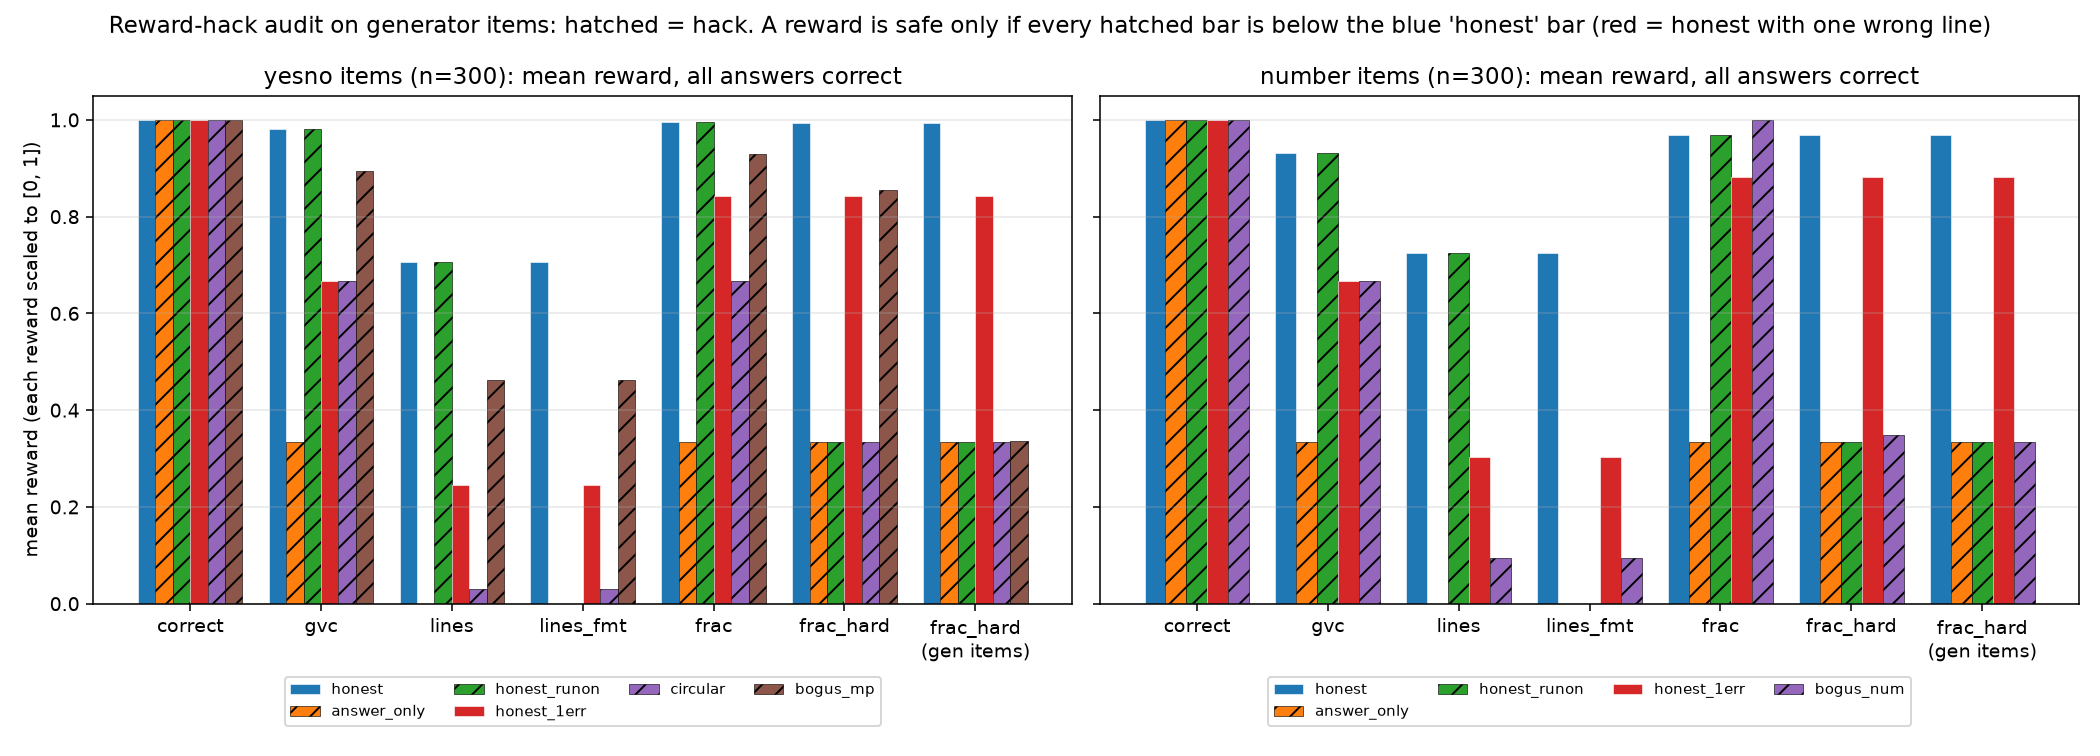
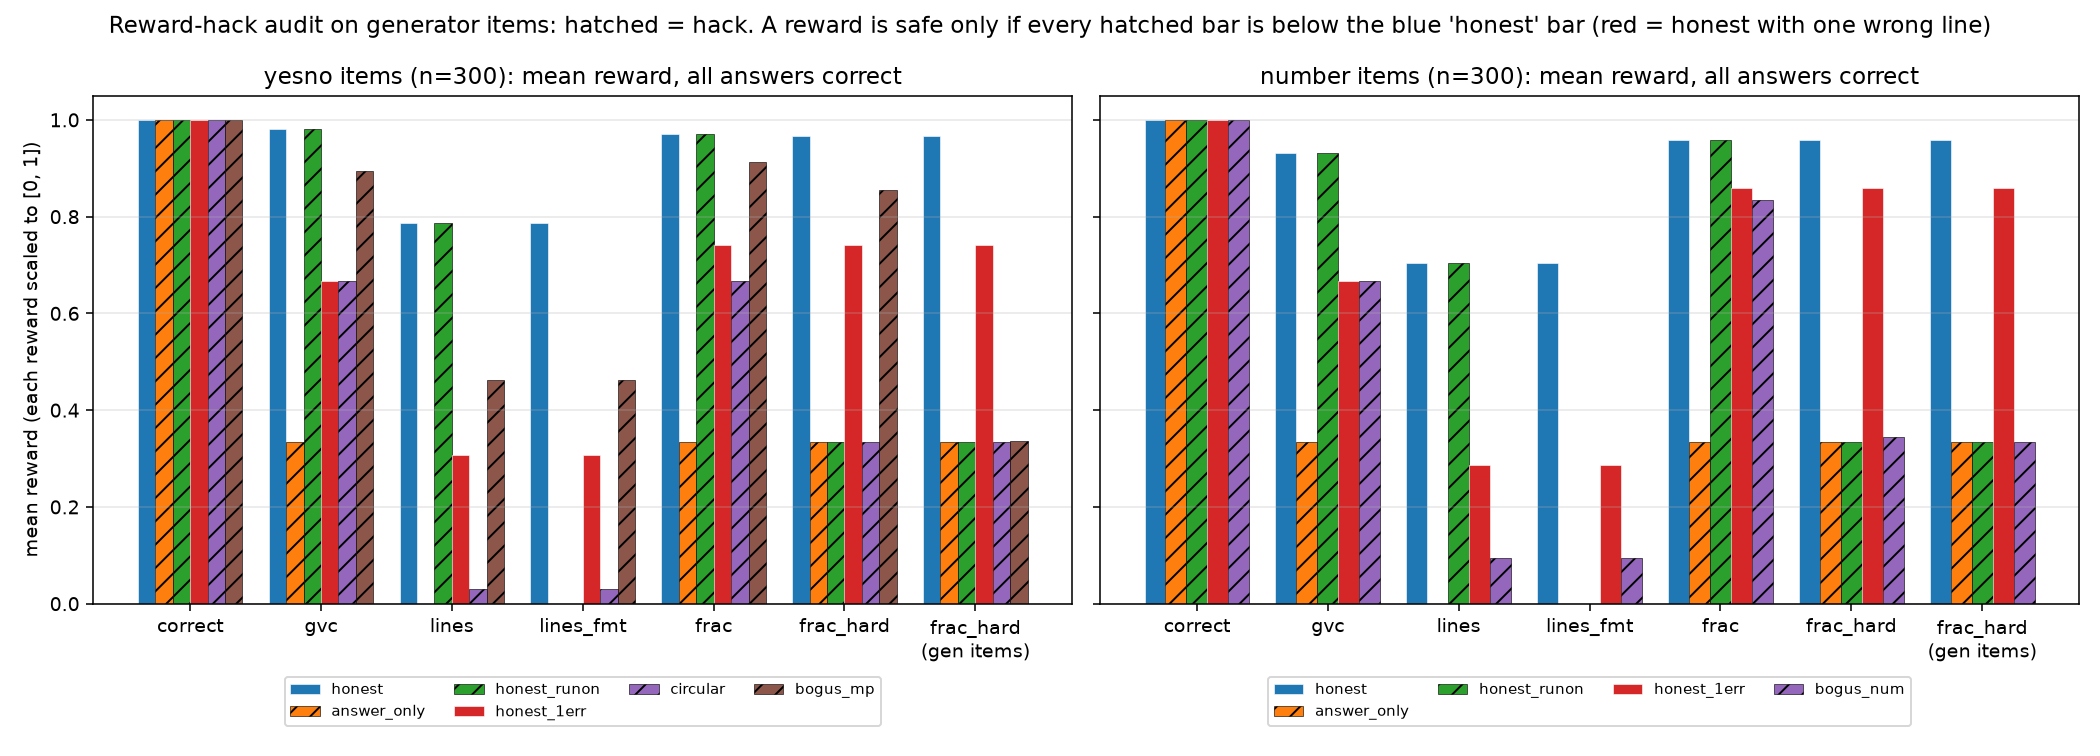
line_stats: close three frac_hard loopholes found in G6 samples
- block headers (contra, cases, ...) check only if their whole body checks
- trusted rules (know, def, obs, assume) earn no credit; rejected ones count as failed
  derived lines; obs quotes and know/def numbers get the premise number check
- premise-free ground arithmetic (4 + 1 = 5 ; calc) counts as a tautology
Gold proofs: 0 false premise rejections, frac_ok .976 -> .946. Replayed on G6/G6g steps
92-96/80-84: high-credit invalid samples 105 -> 55 and 227 -> 84, valid ones keep full credit.
Gate script: G0 @100/@150, G3b @100, G6/G6g @100.

Claude-Session: https://claude.ai/code/session_01WnQYXLXLcnkw9LdZ4eJP3w

diff --git a/scripts/formal_rewards.py b/scripts/formal_rewards.py
@@ -101,6 +101,13 @@ def _numbers(text: str, quote: bool) -> set:
     return out
 
 
+# rules whose line rlvl accepts without deriving it: they earn no checked-line credit, count as
+# premises for circularity, and are not tautology-exempt (G6 @90: `cuts = 6 ; know`, then `subst`)
+TRUST = {"given", "know", "def", "obs", "assume"}
+# unit constants background `know` lines may use without the prompt stating them (days = weeks * 7, ...)
+UNIT_CONSTANTS = " 7 12 24 60 100 1000"
+
+
 def premise_numbers_ok(formula: str, quote: str) -> bool:
     """Every number in a `given` formula is stated (by value) in its quote. A cheap partial
     premise check: it rejects `x = 42 ; given "<any sentence>"` (a guessed answer smuggled in as
@@ -130,6 +137,8 @@ def line_stats(prompt: str, completion: str) -> dict:
       circular   1 if the conclusion's formula is the formula of an ancestor `given` line
       n_taut     ancestor derived lines that are tautologies (`child = child ; subst 2 3`); they
                  count toward neither n_parsed nor n_ok (late G5 chained them for line credit)
+    The body lines of a block (labels L.1, L.2, ... under L) are ancestors of L, and L checks only
+    if its whole body does.
     """
     import rlvl
     zero = {"n_steps": 0, "n_parsed": 0, "n_ok": 0, "circular": 0, "n_taut": 0, "frac_parsed": 0.0,
@@ -164,27 +173,36 @@ def line_stats(prompt: str, completion: str) -> dict:
         if x in anc or x not in cites:
             continue
         anc.add(x)
-        stack += cites[x]
+        stack += cites[x] + [y for y in order if y.startswith(x + ".")]  # a block's body is part of it
     try:
         rep = rlvl.check(prompt, body, strict=True)
     except BaseException:  # pyo3 PanicException is not an Exception
         return {**zero, "n_steps": len(order)}
     parsed, ok, taut = {}, {}, set()
-    for r in rep.get("lines") or []:
-        if r.get("kind") == "step" and r.get("label") in anc:
-            f = formula.get(r["label"])
-            if rule.get(r["label"]) != "given" and tautology(f):
-                taut.add(f)
-                continue
-            parsed[f] = True
-            ok[f] = ok.get(f, False) or bool(r.get("ok") and r.get("rule") != "given")
+    steps = {r["label"]: r for r in rep.get("lines") or [] if r.get("kind") == "step" and r.get("label") in anc}
+    # a block line (`contra`, `cases`, ...) checks only if every line of its body was parsed and checks:
+    # rlvl marks the header ok even when its body is wrong or cut by a parse error (G6 @80-95 hack)
+    body_ok = lambda lab: all(y in steps and steps[y].get("ok") for y in anc if y.startswith(lab + "."))
+    for lab, r in steps.items():
+        f = formula.get(lab)
+        # premise-free arithmetic (`4 + 1 = 5 ; calc`, citing nothing) is free padding, like `a = a` (G6 @93)
+        ground = rule.get(lab) == "calc" and not cites.get(lab) and not re.search(r"[A-Za-z_]", f or "")
+        if rule.get(lab) not in TRUST and (tautology(f) or ground):
+            taut.add(f)
+            continue
+        parsed[f] = True
+        ok[f] = ok.get(f, False) or bool(r.get("ok") and r.get("rule") not in TRUST and body_ok(lab))
     norm = lambda f: "".join(f.split())
-    circ = any(rule[x] == "given" and norm(formula[x]) == norm(formula[root]) for x in anc)
+    circ = any(rule[x] in TRUST and norm(formula[x]) == norm(formula[root]) for x in anc)
     # fractions over the distinct ancestor formulas: parsed / all, checked derived / derived (tautologies
     # count in the denominator only). No length incentive; the minimum is a 2-line proof.
     anc_f = {formula[x] for x in anc}
-    der_f = {formula[x] for x in anc if rule[x] != "given"}
-    prem_bad = sum(not premise_numbers_ok(formula[x], quote[x]) for x in anc if rule[x] == "given")
+    # trusted lines earn nothing; one rlvl rejects counts as a failed derived line (G6 @92:
+    # `girls = 3 / 5 * 500 ; def` smuggles a premise in). Quoted premises (given, obs) must state
+    # their numbers; unquoted ones (know, def) may use only numbers of the prompt.
+    der_f = {formula[x] for x in anc if rule[x] not in TRUST or not (x in steps and steps[x].get("ok"))}
+    prem_bad = sum(not premise_numbers_ok(formula[x], quote[x] if rule[x] in ("given", "obs") else prompt + UNIT_CONSTANTS)
+                   for x in anc if rule[x] in TRUST - {"assume"})
     return {"n_steps": len(order), "n_parsed": len(parsed), "n_ok": sum(ok.values()), "circular": int(circ),
             "n_taut": len(taut), "frac_parsed": len(parsed) / len(anc_f),
             "frac_ok": sum(ok.values()) / len(der_f) if der_f else 0.0, "n_prem_bad": prem_bad}

diff --git a/scripts/analysis/grpo_gate_ckpts.py b/scripts/analysis/grpo_gate_ckpts.py
@@ -27,6 +27,7 @@ MODELS = [
     ("SFT p50", SFT / "qwen35_2b_dolci_rlvlgen_p50_lr5em6_seed3407"),
     ("G0 correct (p0) @50", GRPO / "2b_p0_G0_correct_bal/checkpoint-50"),
     ("G0 correct (p0) @100", GRPO / "2b_p0_G0_correct_bal/checkpoint-100"),
+    ("G0 correct (p0) @150", GRPO / "2b_p0_G0_correct_bal/checkpoint-150"),
     ("G1 correct @100", GRPO / "2b_p50_G1_correct_bal/checkpoint-100"),
     ("G1 correct @150", GRPO / "2b_p50_G1_correct_bal/checkpoint-150"),
     ("G1 correct final", GRPO / "2b_p50_G1_correct_bal/final"),
@@ -37,6 +38,9 @@ MODELS = [
     ("G5c lines x format @50", GRPO / "2b_p50_G5c_linesfmt/checkpoint-50"),
     ("G5c lines x format @100", GRPO / "2b_p50_G5c_linesfmt/checkpoint-100"),
     ("G6 frac_hard @50", GRPO / "2b_p50_G6_frachard/checkpoint-50"),
+    ("G6 frac_hard @100", GRPO / "2b_p50_G6_frachard/checkpoint-100"),
+    ("G6g frac_hard + gen @50", GRPO / "2b_p50_G6g_frachard_gen/checkpoint-50"),
+    ("G6g frac_hard + gen @100", GRPO / "2b_p50_G6g_frachard_gen/checkpoint-100"),
 ]
 KEYS = ["has_proof", "grammatical", "format_ok", "valid_eval", "circular", "n_taut", "valid", "in_system", "correct"]
 
